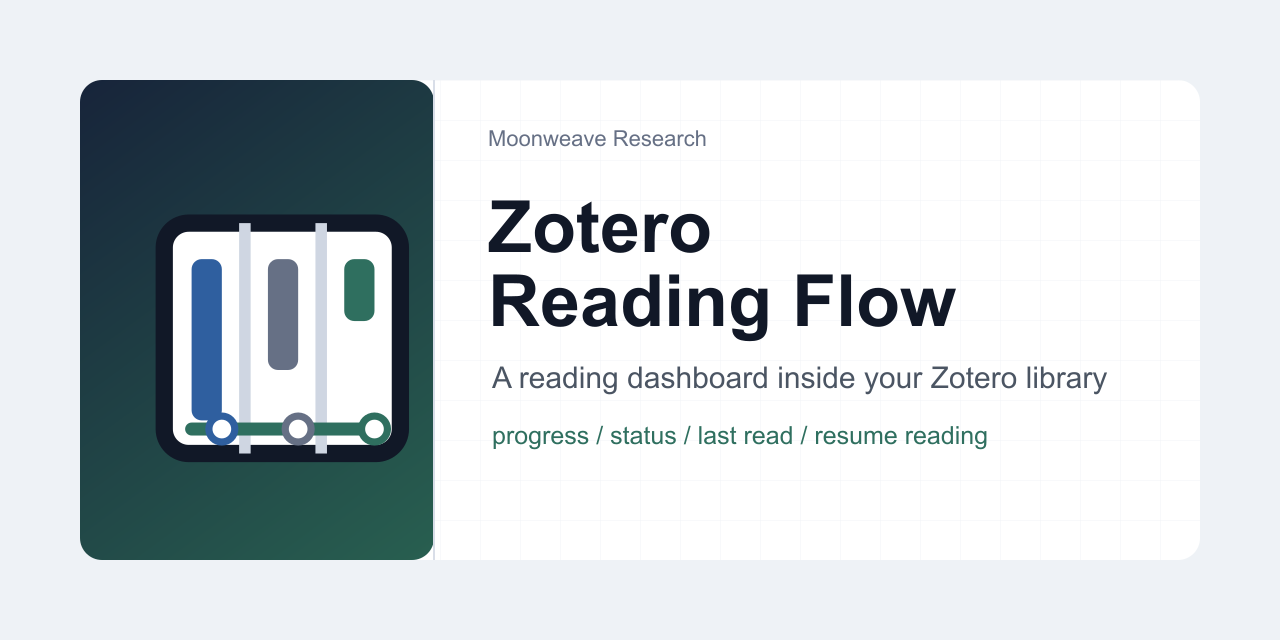
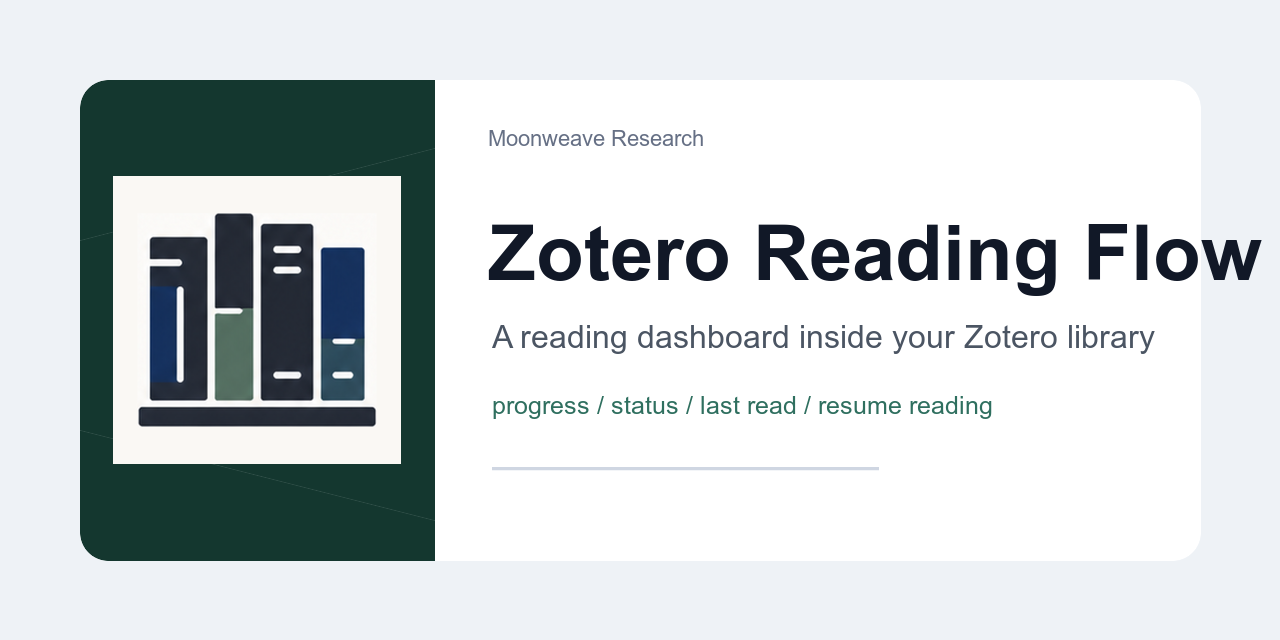
Use generated Reading Flow identity assets

diff --git a/README.md b/README.md
@@ -1,6 +1,6 @@
 <div align="center">
 
-<img src=".github/assets/zotero-reading-flow-mark.svg" alt="Zotero Reading Flow mark" width="96">
+<img src=".github/assets/zotero-reading-flow-mark-512.png" alt="Zotero Reading Flow mark" width="96">
 
 </div>
 